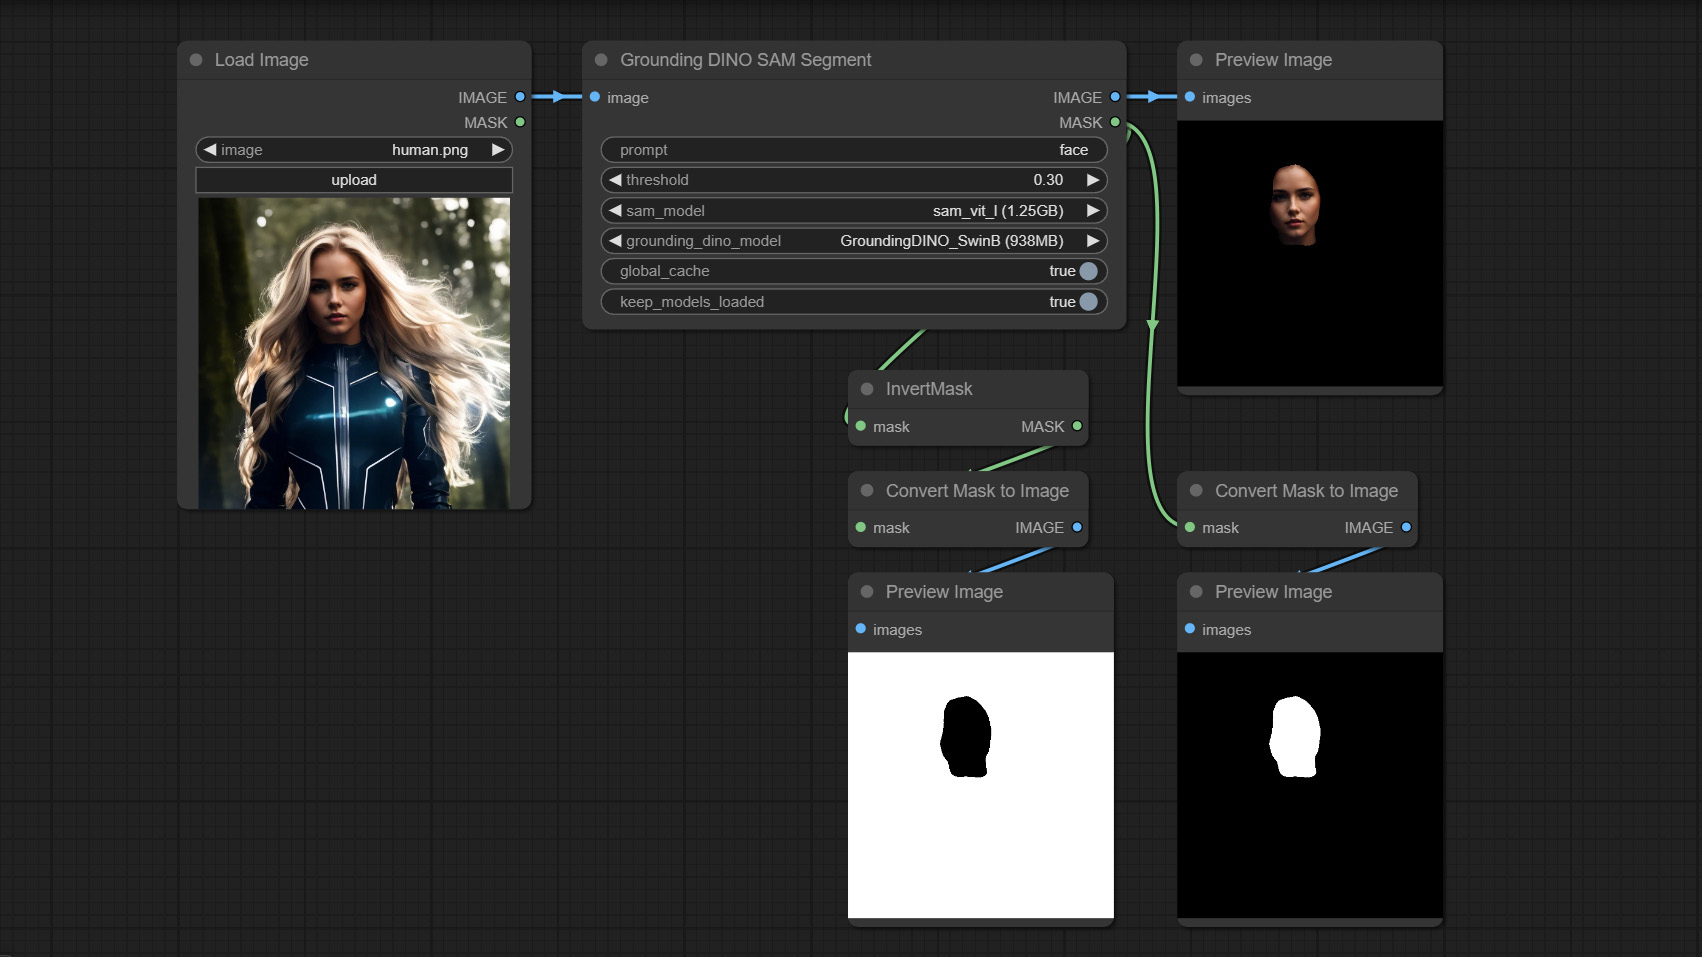
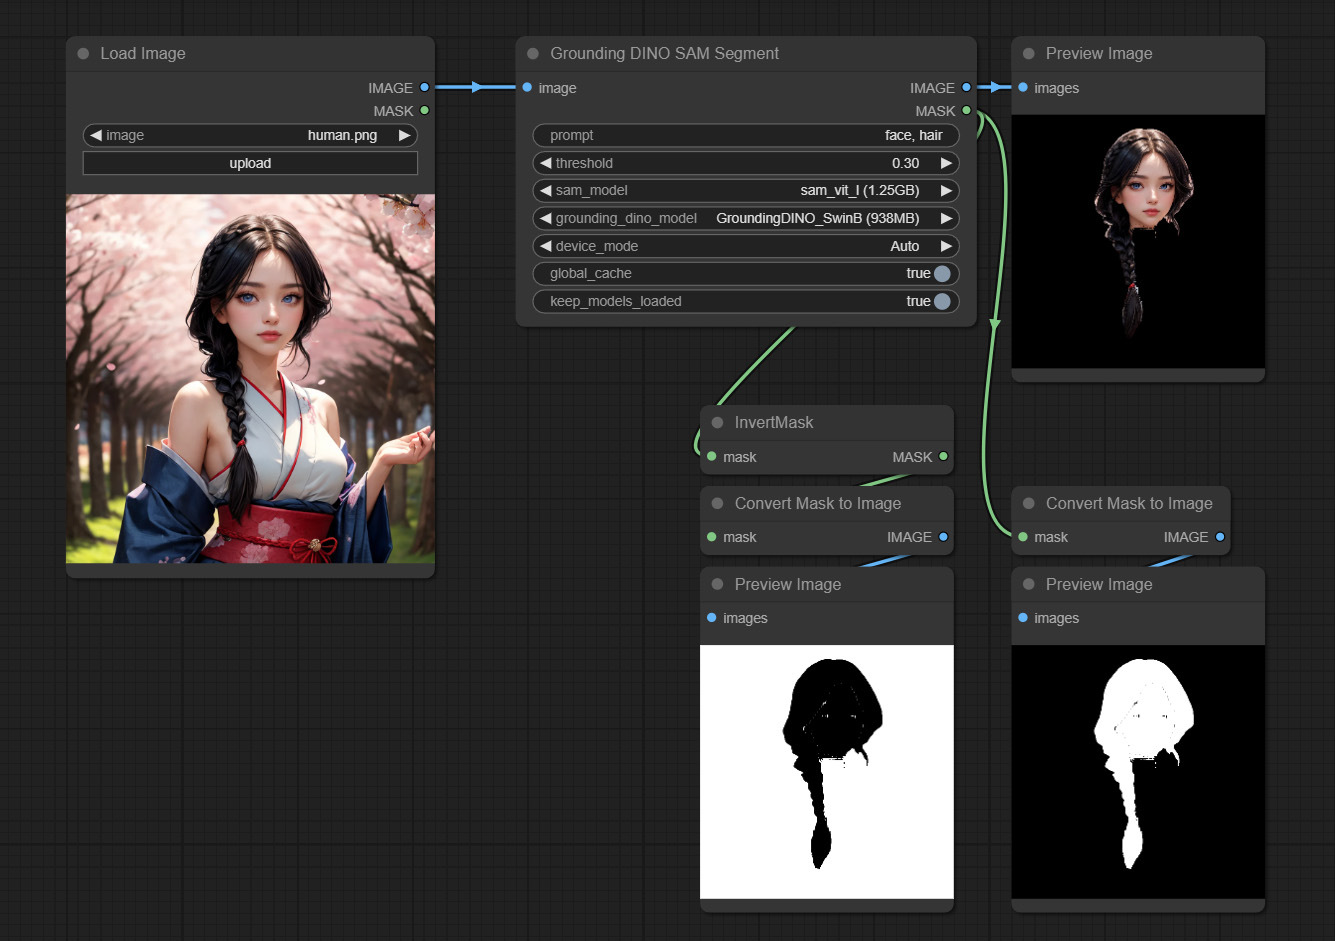
Add device selection option: Auto, Prefer GPU, CPU
Update example image

Changed region(s): [[0.0307, 0.0308, 0.9521, 0.6164], [0.4914, 0.3698, 0.9521, 0.9862], [0.0614, 0.0308, 0.1843, 0.0925]]

diff --git a/node.py b/node.py
@@ -74,7 +74,7 @@ def list_sam_model():
     return list(sam_model_list.keys())
 
 
-def load_sam_model(model_name, cache=True):
+def load_sam_model(model_name, cache=True, device="cuda"):
     global model_cache
     sam = model_cache.get(model_name, None)
     if sam is None:
@@ -88,8 +88,7 @@ def load_sam_model(model_name, cache=True):
         sam.model_name = model_file_name
         if cache:
             model_cache[model_name] = sam
-    sam_device = comfy.model_management.get_torch_device()
-    sam.to(device=sam_device)
+    sam.to(device=device)
     sam.eval()
     return sam
 
@@ -115,7 +114,7 @@ def get_local_filepath(url, dirname, local_file_name=None):
     return destination
 
 
-def load_groundingdino_model(model_name, cache=True):
+def load_groundingdino_model(model_name, cache=True, device="cuda"):
     from local_groundingdino.datasets import transforms as T
     from local_groundingdino.util.utils import clean_state_dict as local_groundingdino_clean_state_dict
     from local_groundingdino.util.slconfig import SLConfig as local_groundingdino_SLConfig
@@ -143,7 +142,6 @@ def load_groundingdino_model(model_name, cache=True):
             checkpoint['model']), strict=False)
         if cache:
             model_cache[model_name] = dino
-    device = comfy.model_management.get_torch_device()
     dino.to(device=device)
     dino.eval()
     return dino
@@ -157,7 +155,8 @@ def groundingdino_predict(
     dino_model,
     image,
     prompt,
-    threshold
+    threshold,
+    device="cuda"
 ):
     def load_dino_image(image_pil):
         from local_groundingdino.datasets import transforms as T
@@ -169,14 +168,13 @@ def groundingdino_predict(
             ]
         )
         image, _ = transform(image_pil, None)  # 3, h, w
-        return image
+        return image.to(device)
 
-    def get_grounding_output(model, image, caption, box_threshold):
+    def get_grounding_output(model, image, caption, box_threshold, device):
         caption = caption.lower()
         caption = caption.strip()
         if not caption.endswith("."):
             caption = caption + "."
-        device = comfy.model_management.get_torch_device()
         image = image.to(device)
         with torch.no_grad():
             outputs = model(image[None], captions=[caption])
@@ -188,15 +186,15 @@ def groundingdino_predict(
         filt_mask = logits_filt.max(dim=1)[0] > box_threshold
         logits_filt = logits_filt[filt_mask]  # num_filt, 256
         boxes_filt = boxes_filt[filt_mask]  # num_filt, 4
-        return boxes_filt.cpu()
+        return boxes_filt.to(device)
 
     dino_image = load_dino_image(image.convert("RGB"))
     boxes_filt = get_grounding_output(
-        dino_model, dino_image, prompt, threshold
+        dino_model, dino_image, prompt, threshold, device
     )
     H, W = image.size[1], image.size[0]
     for i in range(boxes_filt.size(0)):
-        boxes_filt[i] = boxes_filt[i] * torch.Tensor([W, H, W, H])
+        boxes_filt[i] = boxes_filt[i] * torch.Tensor([W, H, W, H]).to(device)
         boxes_filt[i][:2] -= boxes_filt[i][2:] / 2
         boxes_filt[i][2:] += boxes_filt[i][:2]
     return boxes_filt
@@ -215,7 +213,7 @@ def create_pil_output(image_np, masks, boxes_filt):
 
 def create_tensor_output(image_np, masks, boxes_filt):
     output_masks, output_images = [], []
-    boxes_filt = boxes_filt.numpy().astype(int) if boxes_filt is not None else None
+    boxes_filt = boxes_filt.cpu().numpy().astype(int) if boxes_filt is not None else None
     for mask in masks:
         image_np_copy = copy.deepcopy(image_np)
         image_np_copy[~np.any(mask, axis=0)] = np.array([0, 0, 0, 0])
@@ -241,7 +239,8 @@ def split_image_mask(image):
 def sam_segment(
     sam_model,
     image,
-    boxes
+    boxes,
+    device="cuda"
 ):
     if boxes.shape[0] == 0:
         return None
@@ -255,13 +254,12 @@ def sam_segment(
     predictor.set_image(image_np_rgb)
     transformed_boxes = predictor.transform.apply_boxes_torch(
         boxes, image_np.shape[:2])
-    sam_device = comfy.model_management.get_torch_device()
     masks, _, _ = predictor.predict_torch(
         point_coords=None,
         point_labels=None,
-        boxes=transformed_boxes.to(sam_device),
+        boxes=transformed_boxes.to(device),
         multimask_output=False)
-    masks = masks.permute(1, 0, 2, 3).cpu().numpy()
+    masks = masks.permute(1, 0, 2, 3).cpu().numpy()  # Move to CPU before converting to numpy
     return create_tensor_output(image_np, masks, boxes)
 
 
@@ -280,6 +278,13 @@ class GroundingDinoSAMSegment:
                 }),
                 "sam_model": (list_sam_model(), ),
                 "grounding_dino_model": (list_groundingdino_model(), ),
+                "device_mode": (["Auto", "Prefer GPU", "CPU"],
+                    {
+                        "tooltip": "Auto: Only applicable when a GPU is available. It temporarily loads models into VRAM only when the detection function is used.\n"
+                        "Prefer GPU: Tries to keep models on the GPU whenever possible. This can be used when there is sufficient VRAM available.\n"
+                        "CPU: Always loads only on the CPU."
+                    },
+                ),
                 "global_cache": ('BOOLEAN', {"default": True}),
                 "keep_models_loaded": ("BOOLEAN", {"default": True}),
             }
@@ -289,14 +294,21 @@ class GroundingDinoSAMSegment:
     RETURN_TYPES = ("IMAGE", "MASK")
 
 
-    def main(self, image, prompt, threshold, sam_model, grounding_dino_model, global_cache, keep_models_loaded):
+    def main(self, image, prompt, threshold, sam_model, grounding_dino_model, device_mode, global_cache, keep_models_loaded):
+        if device_mode == "Prefer GPU" and torch.cuda.is_available():
+            device = "cuda"
+        elif device_mode == "CPU":
+            device = "cpu"
+        else:  # "Auto" mode: Use GPU if available, else fallback to CPU
+            device = "cuda" if torch.cuda.is_available() else "cpu"
+
         def sam_model_loader(model_name, global_cache):
-            sam_model = load_sam_model(model_name, cache=global_cache)
-            return (sam_model)
+            sam_model = load_sam_model(model_name, cache=global_cache, device=device)
+            return sam_model
 
         def groundingdino_model_loader(model_name, global_cache):
-            dino_model = load_groundingdino_model(model_name, cache=global_cache)
-            return (dino_model)
+            dino_model = load_groundingdino_model(model_name, cache=global_cache, device=device)
+            return dino_model
 
         res_images = []
         res_masks = []
@@ -307,20 +319,22 @@ class GroundingDinoSAMSegment:
                 groundingdino_model_loader(grounding_dino_model, global_cache),
                 item,
                 prompt,
-                threshold
+                threshold,
+                device
             )
             if boxes.shape[0] == 0:
                 break
             (images, masks) = sam_segment(
                 sam_model_loader(sam_model, global_cache),
                 item,
-                boxes
+                boxes,
+                device
             )
             res_images.extend(images)
             res_masks.extend(masks)
         if len(res_images) == 0:
             _, height, width, _ = image.size()
-            empty_images = torch.zeros((1, height, width,3), dtype=torch.float32, device="cpu")
+            empty_images = torch.zeros((1, height, width, 3), dtype=torch.float32, device="cpu")
             empty_masks = torch.zeros((1, height, width), dtype=torch.float32, device="cpu")
             return (empty_images, empty_masks)
         if not keep_models_loaded:
